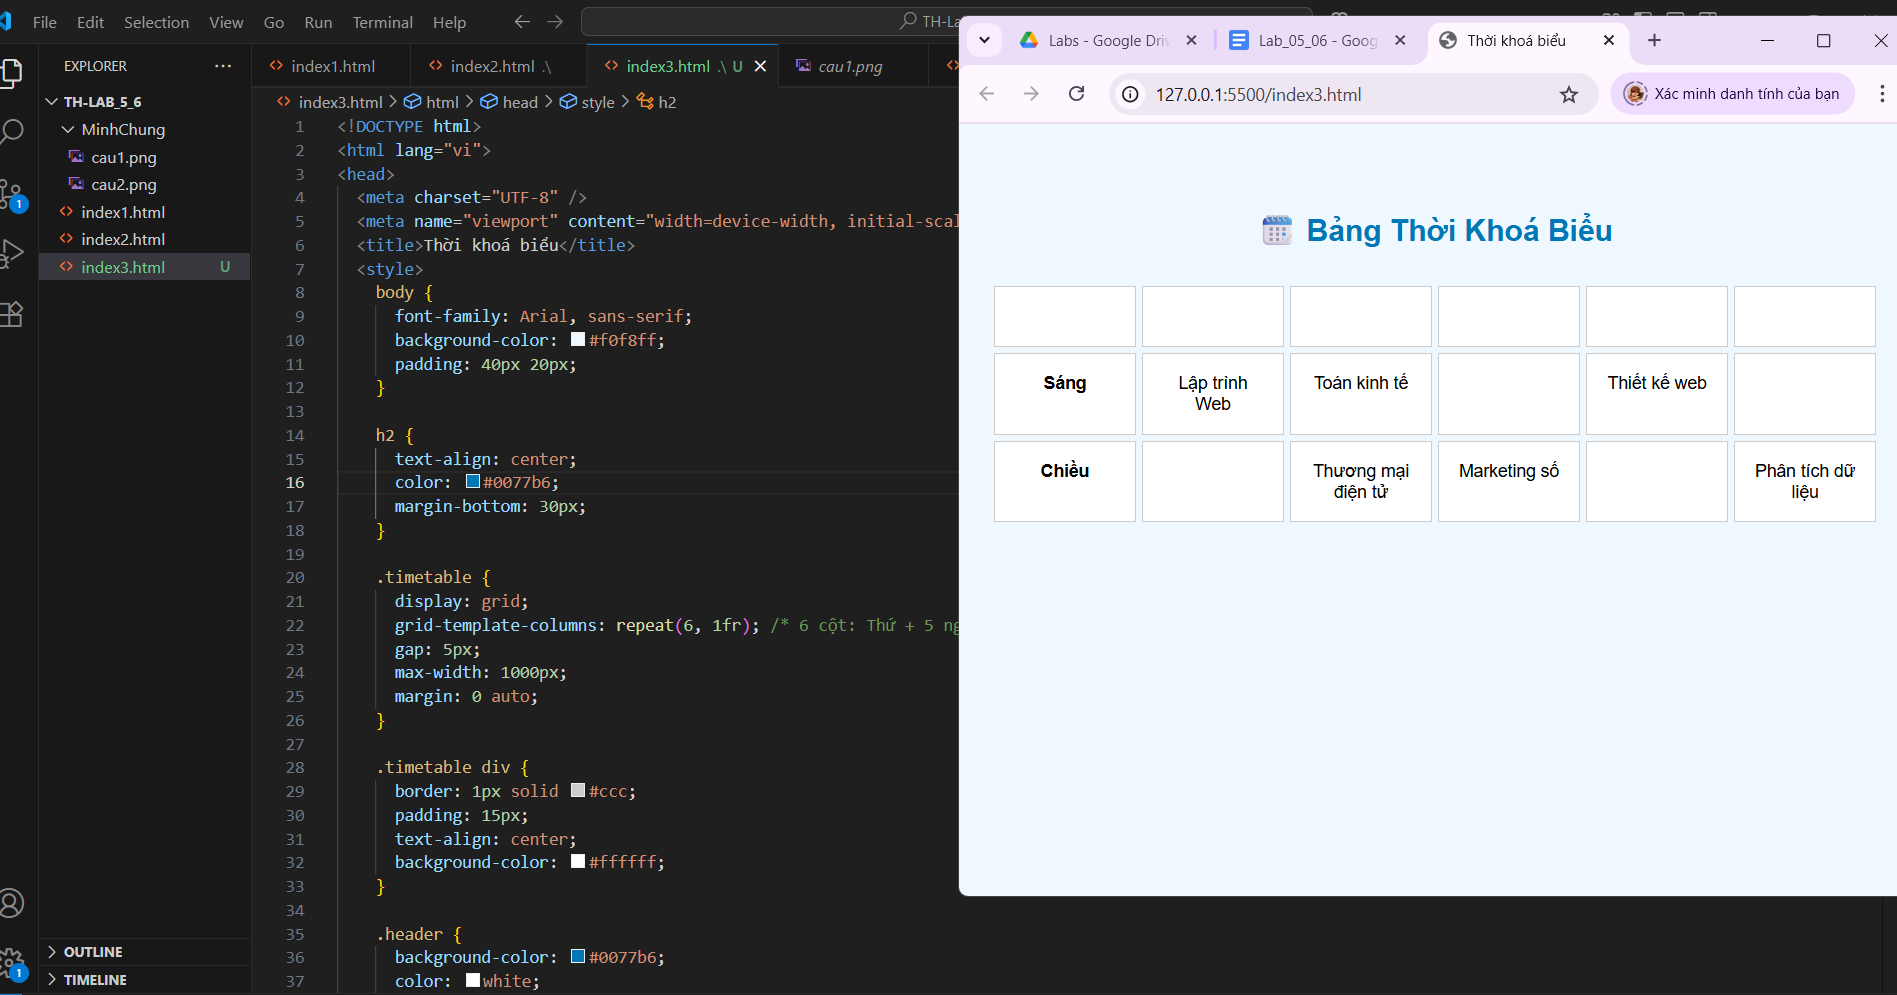
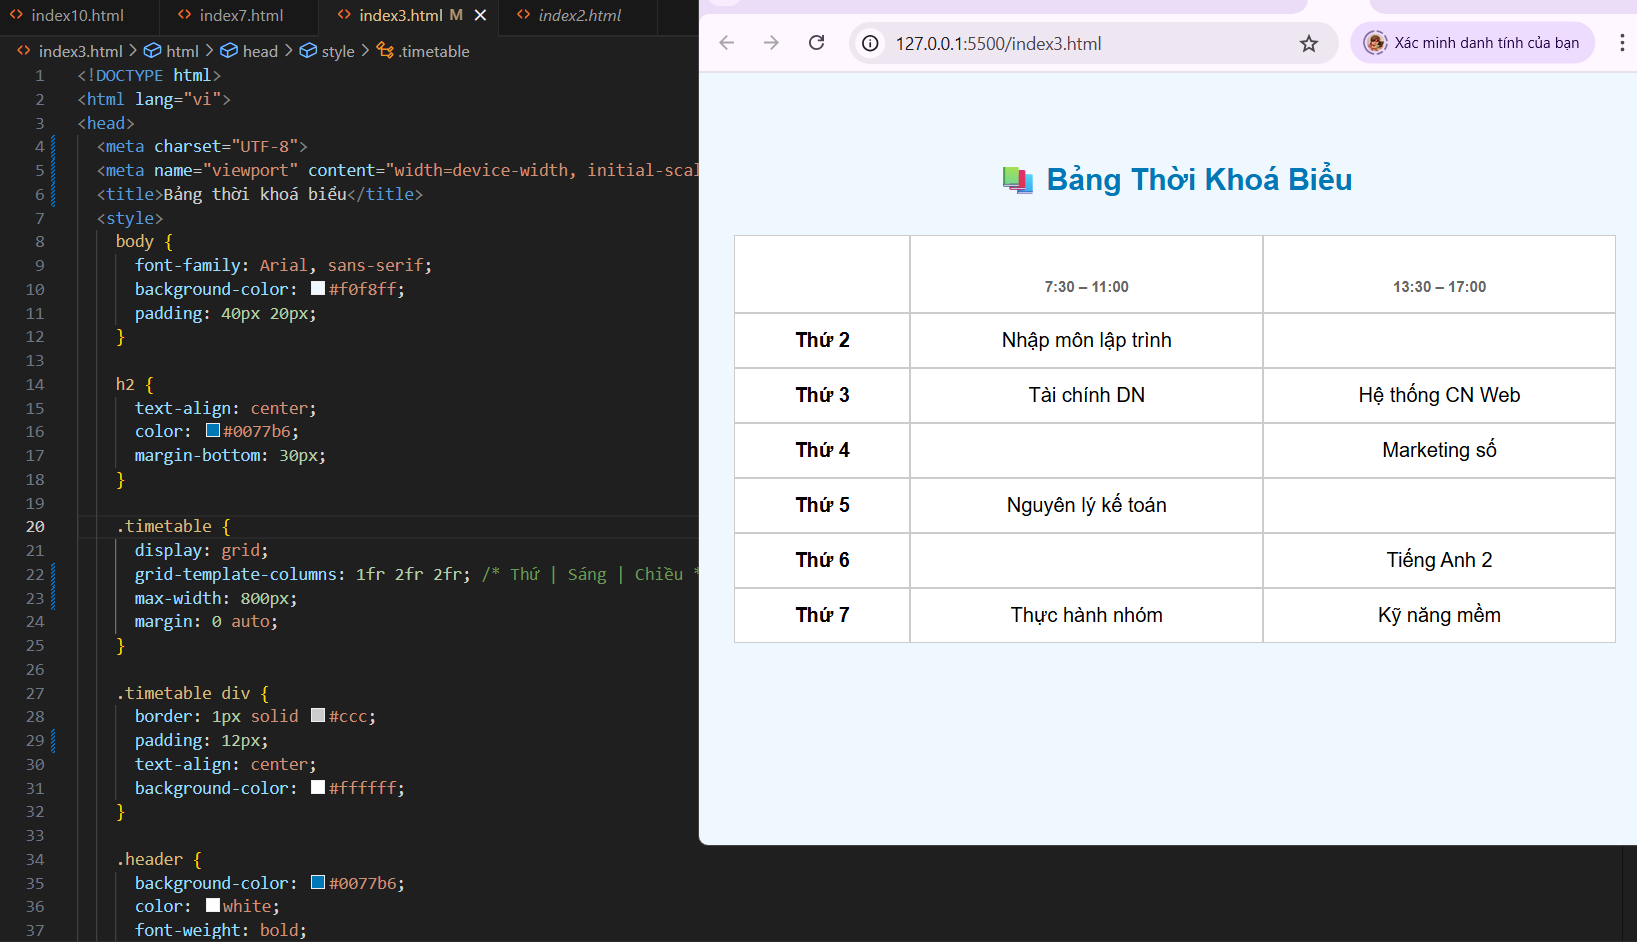
add file index3 + MC

diff --git a/index3.html b/index3.html
@@ -1,9 +1,9 @@
 <!DOCTYPE html>
 <html lang="vi">
 <head>
-  <meta charset="UTF-8" />
-  <meta name="viewport" content="width=device-width, initial-scale=1.0"/>
-  <title>Thời khoá biểu</title>
+  <meta charset="UTF-8">
+  <meta name="viewport" content="width=device-width, initial-scale=1.0">
+  <title>Bảng thời khoá biểu</title>
   <style>
     body {
       font-family: Arial, sans-serif;
@@ -19,15 +19,14 @@
 
     .timetable {
       display: grid;
-      grid-template-columns: repeat(6, 1fr); /* 6 cột: Thứ + 5 ngày */
-      gap: 5px;
-      max-width: 1000px;
+      grid-template-columns: 1fr 2fr 2fr; /* Thứ | Sáng | Chiều */
+      max-width: 800px;
       margin: 0 auto;
     }
 
     .timetable div {
       border: 1px solid #ccc;
-      padding: 15px;
+      padding: 12px;
       text-align: center;
       background-color: #ffffff;
     }
@@ -38,47 +37,67 @@
       font-weight: bold;
     }
 
-    .time-label {
+    .day {
       background-color: #caf0f8;
       font-weight: bold;
     }
 
-    @media (max-width: 768px) {
+    .time-note {
+      font-size: 12px;
+      color: #666;
+    }
+
+    @media (max-width: 600px) {
       .timetable {
-        font-size: 14px;
+        grid-template-columns: 1fr 1fr;
+      }
+
+      .timetable div:nth-child(3n+1) {
+        grid-column: span 2;
       }
     }
   </style>
 </head>
 <body>
 
-  <h2>🗓 Bảng Thời Khoá Biểu</h2>
+  <h2>📚 Bảng Thời Khoá Biểu</h2>
 
-  <section class="timetable">
+  <div class="timetable">
     <!-- Hàng tiêu đề -->
-    <div class="header">Thời gian</div>
-    <div class="header">Thứ 2</div>
-    <div class="header">Thứ 3</div>
-    <div class="header">Thứ 4</div>
-    <div class="header">Thứ 5</div>
-    <div class="header">Thứ 6</div>
+    <div class="header">Thứ</div>
+    <div class="header">Sáng<br><span class="time-note">7:30 – 11:00</span></div>
+    <div class="header">Chiều<br><span class="time-note">13:30 – 17:00</span></div>
 
-    <!-- Hàng 1 -->
-    <div class="time-label">Sáng</div>
-    <div>Lập trình Web</div>
-    <div>Toán kinh tế</div>
-    <div></div>
-    <div>Thiết kế web</div>
+    <!-- Thứ 2 -->
+    <div class="day">Thứ 2</div>
+    <div>Nhập môn lập trình</div>
     <div></div>
 
-    <!-- Hàng 2 -->
-    <div class="time-label">Chiều</div>
+    <!-- Thứ 3 -->
+    <div class="day">Thứ 3</div>
+    <div>Tài chính DN</div>
+    <div>Hệ thống CN Web</div>
+
+    <!-- Thứ 4 -->
+    <div class="day">Thứ 4</div>
     <div></div>
-    <div>Thương mại điện tử</div>
     <div>Marketing số</div>
+
+    <!-- Thứ 5 -->
+    <div class="day">Thứ 5</div>
+    <div>Nguyên lý kế toán</div>
     <div></div>
-    <div>Phân tích dữ liệu</div>
-  </section>
+
+    <!-- Thứ 6 -->
+    <div class="day">Thứ 6</div>
+    <div></div>
+    <div>Tiếng Anh 2</div>
+
+    <!-- Thứ 7 -->
+    <div class="day">Thứ 7</div>
+    <div>Thực hành nhóm</div>
+    <div>Kỹ năng mềm</div>
+  </div>
 
 </body>
 </html>
